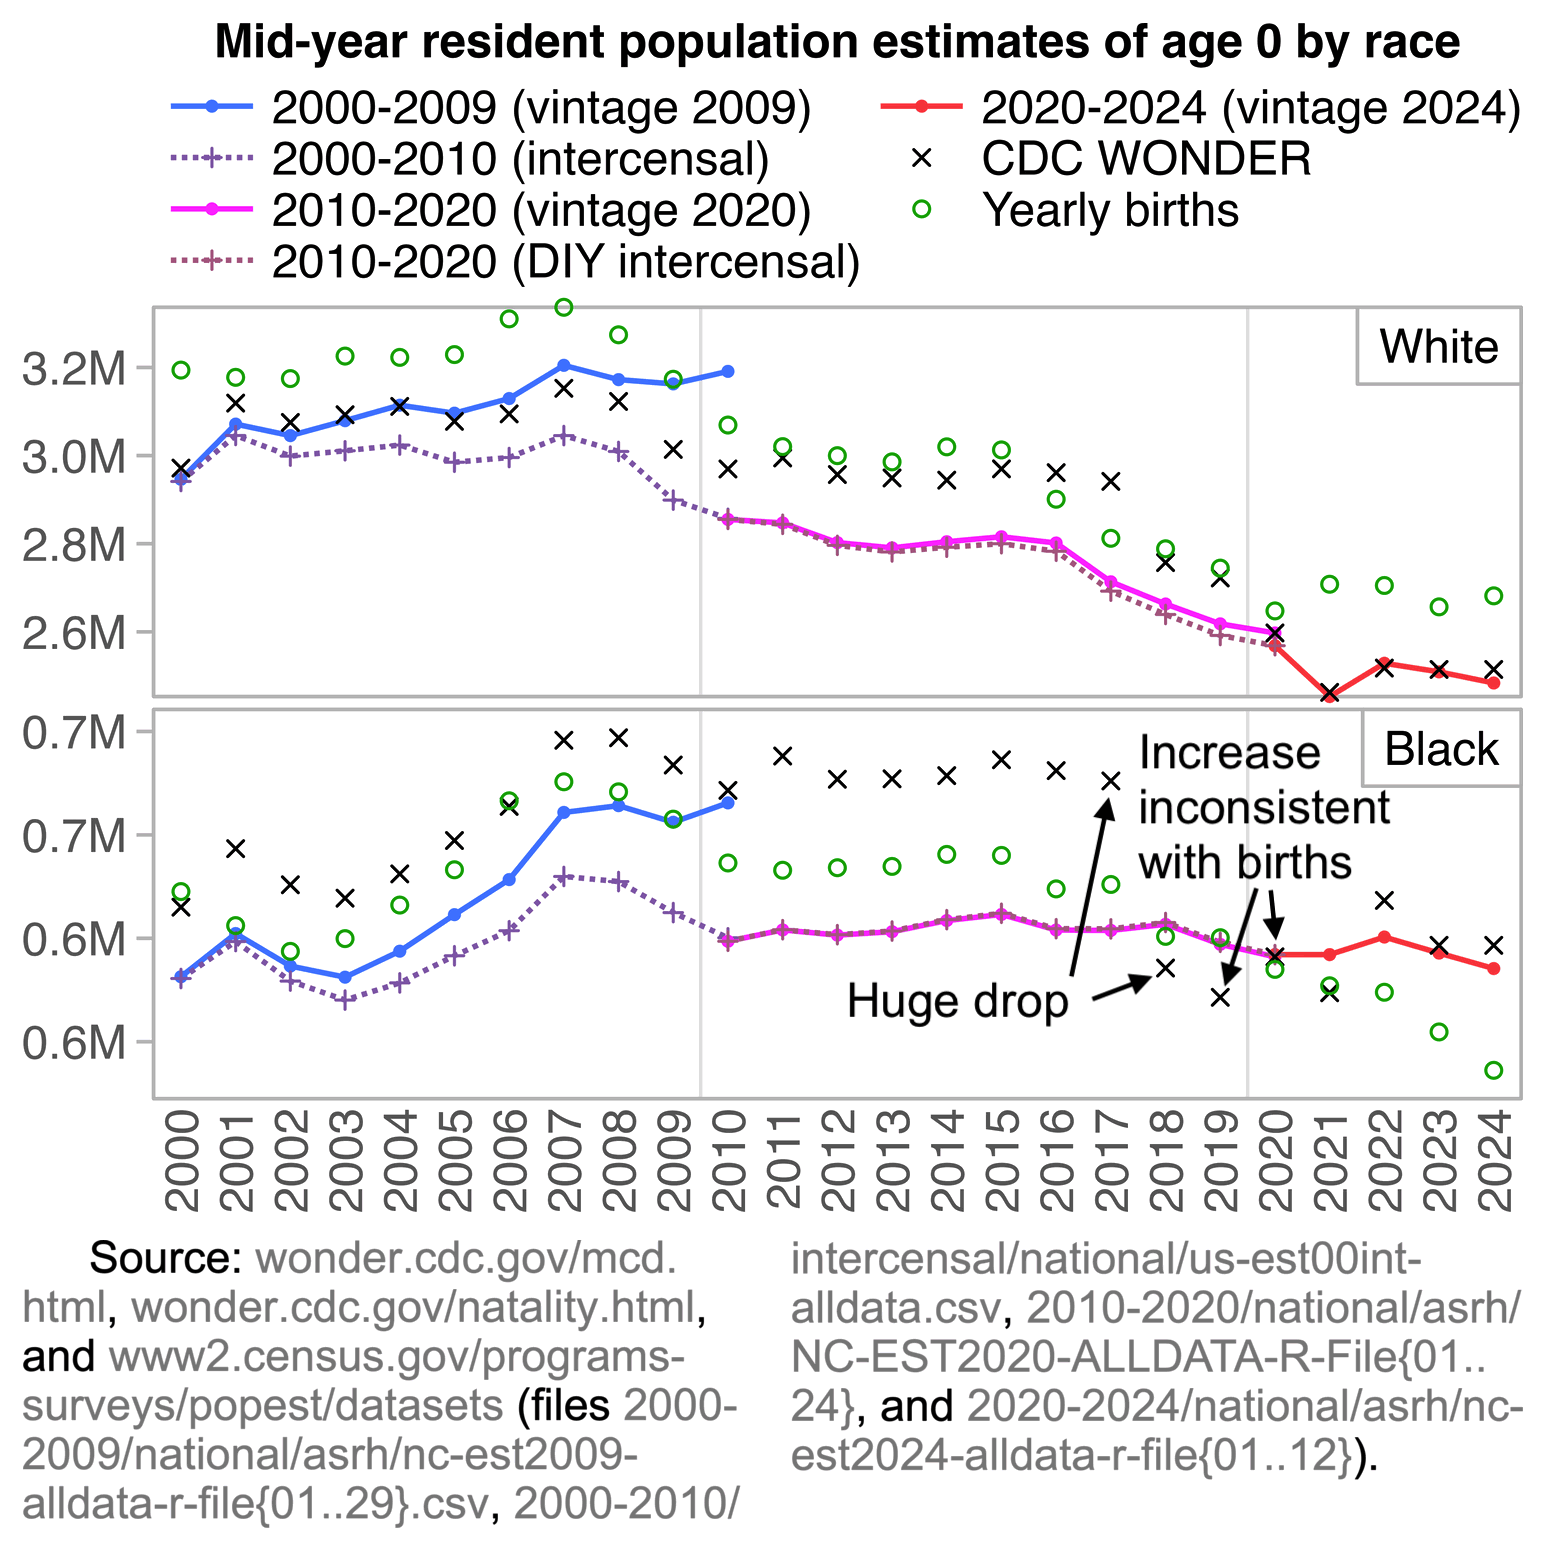
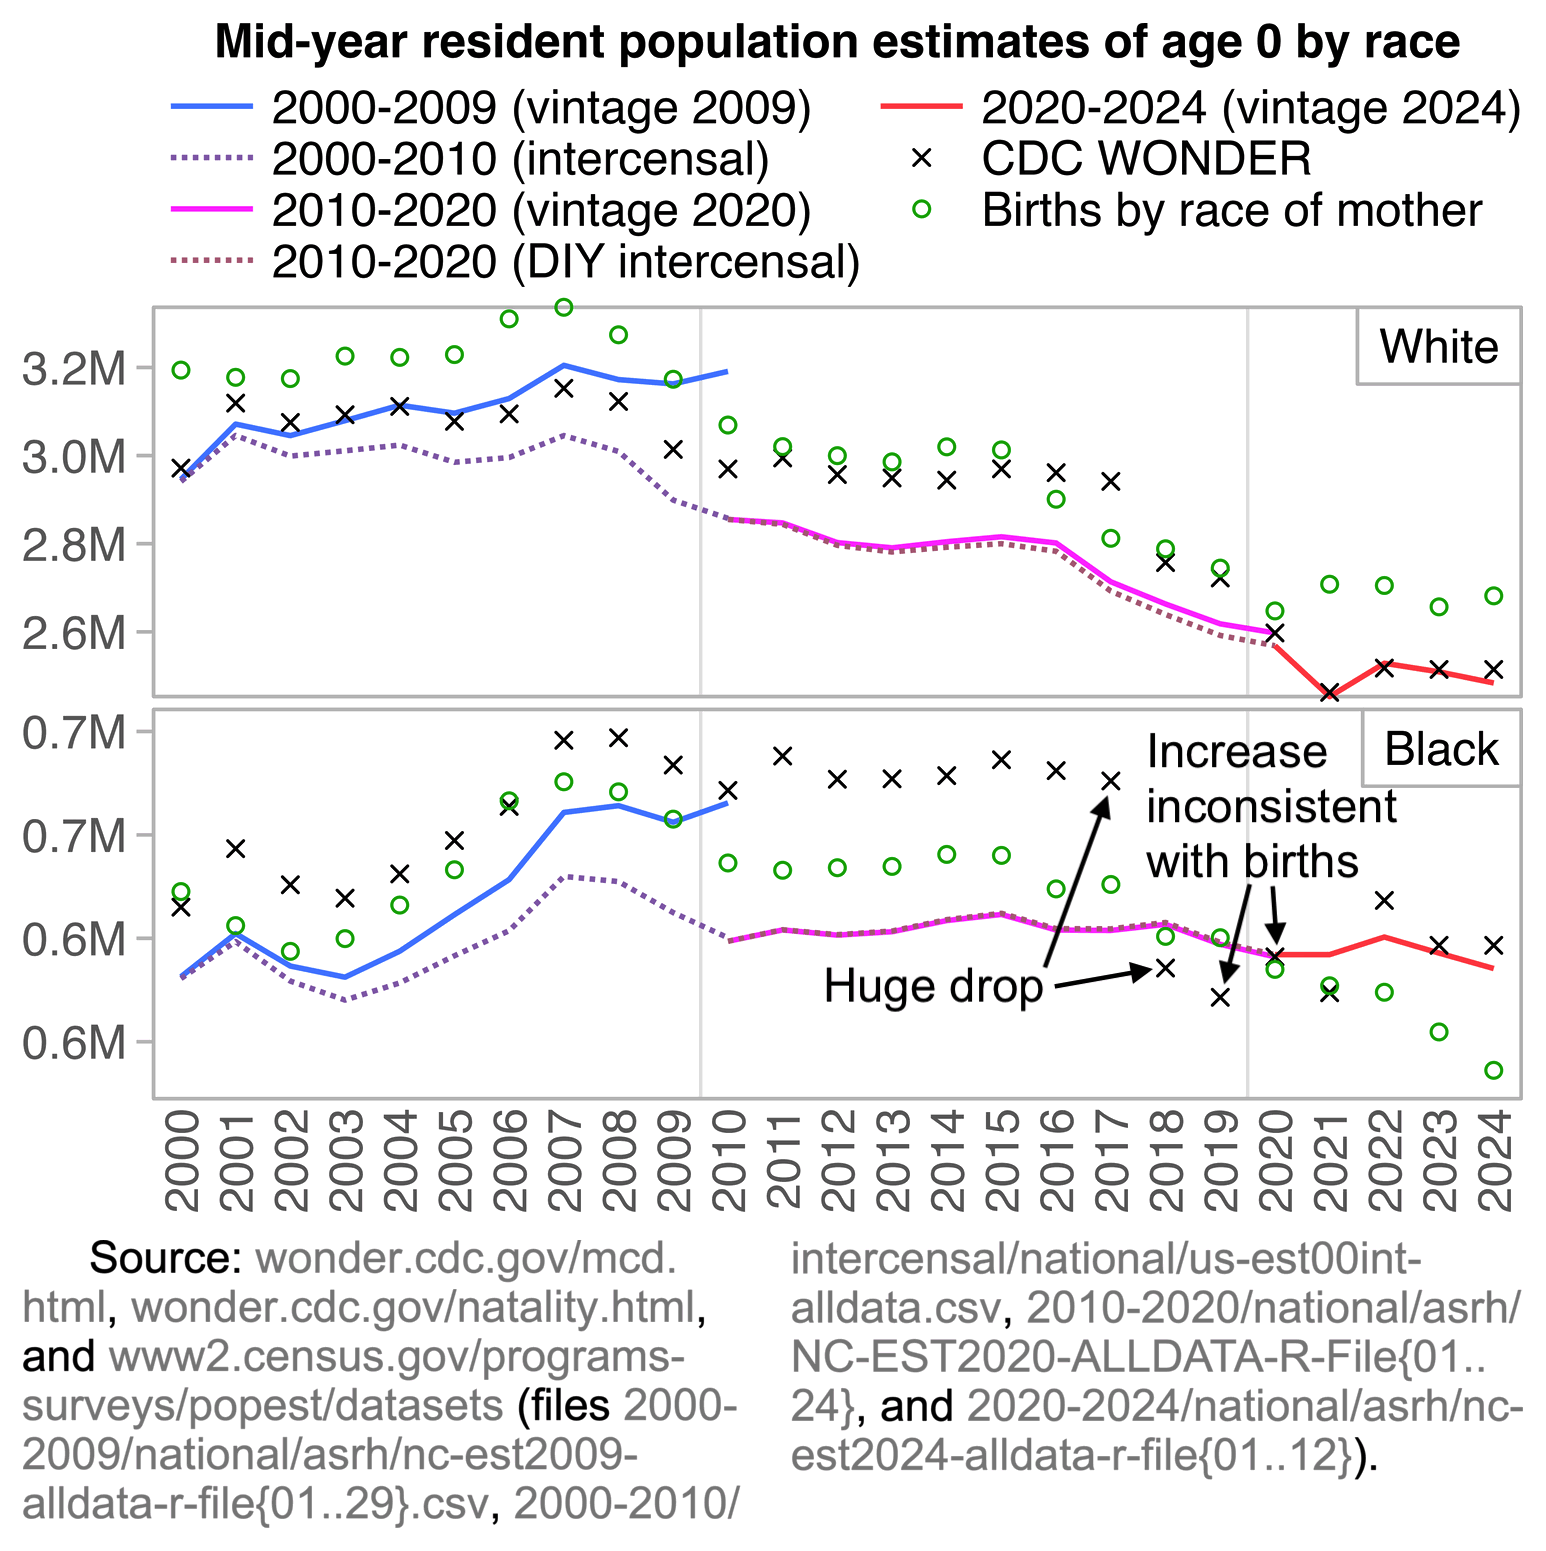
a

Changed region(s): [[0.5278, 0.4642, 0.9004, 0.6809], [0.621, 0.1238, 0.9625, 0.1547], [0.8072, 0.4023, 0.8383, 0.4333]]

diff --git a/clot.html b/clot.html
@@ -3789,6 +3789,11 @@ system(paste0(&quot;mogrify &quot;,i,&quot;.png -trim -resize 25% -bordercolor w
 </div>
 <hr />
 <p>In June 2025 Zywiec tweeted: <span class="quote">"I actually was one of the first doctors to work on these. Mass spec analysis, confirmed by two independent labs, show a remarkable pattern. No fibrin, abberant fibrinogen ratios of 9:4:1 a/b/y that should be 1:1:1, extremely high phosphorus, and other abnormalities."</span> [<a href=https://x.com/AndrewZywiecMD/status/1929751981263851605>https://x.com/AndrewZywiecMD/status/1929751981263851605</a>] When someone told him he was misidentifying the clots, he asked them to <span class="quote">"explain the absence of fibrin end product"</span>. I guess he didn't get the memo that fibrin is not supposed to show up in the mass spectrometry results, but only fibrinogen.</p>
+<hr />
+<p>Jikkyleaks got blocked by Andrew Zywiec because of this tweet: [<a href=https://x.com/Jikkyleaks/status/1963041584691487181>https://x.com/Jikkyleaks/status/1963041584691487181</a>]</p>
+<div>
+<img src=i/clot-zywiec-jikky-block.png width=550>
+</div>
 <h3>
 <a href=#Andrew_Zywiec_and_Daniel_Santiago_interviewed_by_Vaxxchoice id=Andrew_Zywiec_and_Daniel_Santiago_interviewed_by_Vaxxchoice>Andrew Zywiec and Daniel Santiago interviewed by Vaxxchoice</a>
 </h3>
@@ -3837,7 +3842,7 @@ system(paste0(&quot;mogrify &quot;,i,&quot;.png -trim -resize 25% -bordercolor w
 </div>
 <p>The description of the video said: <span class="quote">"On today's Dr. Jane Ruby Show, Dr. Jane interviews Counter-bioterrorism expert Dr. Tau Braun who explains that self-replicating nanoparticles in the C19 shots are programmed to grow venom ducts inside the human body. His theory is that the jabbed are growing live venom gland cells and other animal structures. Dr. Jane shows you the DOJ's research using cone snail venom to make huge amounts of deadly synthetic conotoxins. They say that deep ocean cone snail venom is a serious threat to humans who never dive that deep!"</span></p>
 <p>When Jane Ruby introduced Tau Braun, she said: <span class="quote">"He has worked with many of the experts you have already seen on the Jane Ruby Show, like Sasha Latypova of Team Enigma, Bryan Ardis, and so many more."</span> [8:50] Latypova said that hydrogel is probably incorporated into the calamari clots. [<a href=https://www.bitchute.com/video/6wSCNCHm1dUa/>https://www.bitchute.com/video/6wSCNCHm1dUa/</a>, time 40:45] Bryan Ardis says that the clots are made of two snake venom peptides in a hydrogel solution.</p>
-<p>Tau Braun said that people were wondering if COVID vaccines contain snake venom or if they contain graphene oxide, but he said they contai,n both because the graphene oxide acts as a delivery mechanism for the snake venom. At time 13:18, he said: <span class="quote">"How do you get venom into the body and how do you keep it stable? You add graphene oxide."</span></p>
+<p>Tau Braun said that people were wondering if COVID vaccines contain snake venom or if they contain graphene oxide, but he said they contain both because the graphene oxide acts as a delivery mechanism for the snake venom. At time 13:18, he said: <span class="quote">"How do you get venom into the body and how do you keep it stable? You add graphene oxide."</span></p>
 <p>At time 40:33, Tau Braun said that the calamari clots consist of tissue which contains snake venom ducts: <span class="quote">"Those monstrous clot-looking things are literally tissue that has grown a duct - and specialized ducts - the closest match I found to these fibrotic clots today is the chameleon tongue - it's the long, very very - extremely - it has what's called the tensile strength, it has elasticity to it. But it's extremely strong. Cause it has to whip out like a whip and it has to come back in, and so it has to have expansion at rapid speed, and it has to be able to go back. So it's like elastic."</span></p>
 <p>At time 17:40, Tau Braun said that if there is a species of snake that eats rodents, then the snake won't produce venom which affects amphibians but only venom which affects rodents, and in the same way the snake venom in the COVID vaccines was designed to not affect Aryans because the COVID vaccines are a race-specific bioweapon that was created by the Fourth Reich: <span class="quote">"So why are certain people totally fine from this? I'm gonna tell you that this was built by the Fourth Reich, and I'm gonna tell you that Aryans are not having a problem with this vaccine. I'm gonna tell you that you can stick this into an Aryan over and over. And what I mean by Aryan? I mean people that originally came from Viking heritage, Germanic heritage, and that basically you can go and look at those principles of what Nazis believe the superior race to be. And I'm gonna tell you this weapon was not built for them."</span></p>
 <p>Then Jane Ruby asked: <span class="quote">"How do you know that? What evidence do you have to that effect?"</span> [20:20] And Tau Braun said: <span class="quote">"Well, we know that the spike protein affects chromosome 3, and we know it's a sequence of genes on chromosome 3 that relates to Neanderthal genes. Neanderthal is not Aryan. Neanderthal was a very specific tribe in Europe. They didn't move often. And over time, they basically - some people would say - interbread with what we call modern-day humans. I'd say the modern-day humans raped them. I wouldn't say that there was interbreeding at all, as harsh as that sounds. I'd say that this was a tribe that - their strength, their gain of function, if you want to call it as a tribe - was empathy. That's what the Neanderthal gene is really about. It is really about being a sentinel. It's really about being able to connect the dots. They were the first tribe on the planet that understood medicine. They took care of their elderly. It is everything that this pandemic is not, right?"</span></p>
@@ -3845,12 +3850,14 @@ system(paste0(&quot;mogrify &quot;,i,&quot;.png -trim -resize 25% -bordercolor w
 <div>
 <img src=i/clot-tau-neanderthal-jew.png width=600>
 </div>
-<p>Tau Braun also says that the Aryans were planning to kill off nine tenths of humanity.</p>
 <p>Tau Braun looks like a Middle Easterner, and he seems like a Jew based on some of his posts about Jews on social media, because for example he posted on Facebook about Egyptian Jewish traditions. [<a href=https://www.facebook.com/drtaubraun/posts/pfbid0HhNazBvJ26Xa4r8rR8FAh8P1MgB29gCqX5vHbYti9QNV64WYgxcT1YRgDhpKzJrel>https://www.facebook.com/drtaubraun/posts/pfbid0HhNazBvJ26Xa4r8rR8FAh8P1MgB29gCqX5vHbYti9QNV64WYgxcT1YRgDhpKzJrel</a>] Tau is a Hebrew name that is a variant of the name Tav.</p>
 <p>Tau Braun's bio says that he is a <span class="quote">"U.S. National Counterterrorism &amp; EMS Advisor and Trainer"</span>. [<a href=http://web.archive.org/web/20250122104451/https://www.drtaubraun.com/about>http://web.archive.org/web/20250122104451/https://www.drtaubraun.com/about</a>] He has been a speaker at conferences like the <span class="quote">"Advanced Law Enforcement Rapid Response Training (ALERRT) Conference"</span>, the <span class="quote">"FEMA Active Shooter Preparation for Higher Education Workshop"</span>, and the <span class="quote">"Homeland Security Advisory Council Crisis Leadership and Emergency Management Workshop"</span>:</p>
 <div>
 <img src=i/clot-tau-bio.jpg width=800>
 </div>
+<hr />
+<p>During an interview with Mike Adams in 2023, Tau Braun said: <span class="quote">"We talked about the amyloidic stuff, even before you get it - you got a chance to look at - at some of the, you know, tissue, the samples that you looked at - we, you and I - unpacked a lot of this, sort of the way we're doing it now."</span> [<a href=https://www.bitchute.com/video/3PDYRFdS6te3>https://www.bitchute.com/video/3PDYRFdS6te3</a>, 20:20] But I don't know if by <span class="quote">"amyloidic stuff"</span> he meant calamari clots, and if by the samples he meant the samples that Mike Adams got from Hirschman, but if both of those are true, then Tau Braun would've discussed the clots very early on with Mike Adams.</p>
+<p>Tau Braun now also had a new theory that the calamari clots not only incorporate snake venom, nanobots, and graphene oxide, but now he said the clots also include SV40. At time 38:59 he said: <span class="quote">"You've covered the big stuff on, the big thrombotic events, and the weird castings that are - that this thing can grow in the body - which I'm still trying to work out. I think it's a combination, of venom organoid cells, but I also think that there's something on the spike protein that's used in the vaccine called SV40 - Simian Virus, which is a polyoma virus. And people call that a promoter. I don't like it. It sounds like a, like somebody who promotes like a - a new product or a club. The actual word for things like SV40 is, they are called cell penetrating peptides. And probably the most famous cell penetrating peptide - or some of the proteins that are in sperm that are basically able to get through cell membrane, and then get their RNA or DNA to replicate inside, um, another cell. And that's how, um, the, you know, that's - that's why SV40 is in there as mRNA technology - to basically penetrate into a cell and then make more of itself."</span></p>
 <h3>
 <a href=#Justin_Leslie_said_the_clots_are_teslaphoresis_carbon_nanotubial_systems id=Justin_Leslie_said_the_clots_are_teslaphoresis_carbon_nanotubial_systems>Justin Leslie said the clots are teslaphoresis carbon nanotubial systems</a>
 </h3>

diff --git a/ethical3.html b/ethical3.html
@@ -1504,7 +1504,7 @@ p=rbind(p,t[type==&quot;born&quot;,.(y=sum(pop),z=6),.(x=year,facet=race)])
 
 race=c(&quot;White&quot;,&quot;Black&quot;)
 p=p[facet%in%race][,facet:=factor(facet,race)]
-p[,z:=factor(z,,c(&quot;2000-2009 (vintage 2009)&quot;,&quot;2000-2010 (intercensal)&quot;,&quot;2010-2020 (vintage 2020)&quot;,&quot;2010-2020 (DIY intercensal)&quot;,&quot;2020-2024 (vintage 2024)&quot;,&quot;CDC WONDER&quot;,&quot;Yearly births&quot;))]
+p[,z:=factor(z,,c(&quot;2000-2009 (vintage 2009)&quot;,&quot;2000-2010 (intercensal)&quot;,&quot;2010-2020 (vintage 2020)&quot;,&quot;2010-2020 (DIY intercensal)&quot;,&quot;2020-2024 (vintage 2024)&quot;,&quot;CDC WONDER&quot;,&quot;Births by race of mother&quot;))]
 
 p=na.omit(p[x%in%2000:2024])
 xmin=1999.5;xmax=2024.5;xbreak=2000:2024
@@ -1524,8 +1524,8 @@ geom_label(data=ylim,aes(xmax,max,label=facet),hjust=1,vjust=1,fill=NA,label.r=u
 labs(title=&quot;Mid-year resident population estimates of age 0 by race&quot;,x=NULL,y=NULL)+
 scale_x_continuous(breaks=xbreak)+
 scale_y_continuous(breaks=pretty,labels=\(x)sprintf(&quot;%.1fM&quot;,x/1e6))+
-scale_color_manual(values=c(hsv(c(22,27,30,33,0)/36,c(.7,.4,.7,.4,.7),c(1,.7,1,.7,1)),&quot;black&quot;,&quot;#00aa00&quot;))+
-scale_shape_manual(values=c(16,3,16,3,16,4,1))+
+scale_color_manual(values=c(hsv(c(22,27,30,34,0)/36,c(.7,.4,.7,.4,.7),c(1,.7,1,.7,1)),&quot;black&quot;,&quot;#00aa00&quot;))+
+scale_shape_manual(values=c(NA,NA,NA,NA,NA,4,1))+
 scale_linetype_manual(values=c(&quot;solid&quot;,&quot;11&quot;)[c(1,2,1,2,1,1,1)])+
 scale_alpha_manual(values=c(0,0,0,0,0,1,1))+
 scale_linewidth_manual(values=c(.6,.6,.6,.6,.6,0,0))+
@@ -1557,6 +1557,7 @@ theme(axis.text=element_text(size=11,color=&quot;gray40&quot;,margin=margin(2,2,
   strip.text=element_blank())
 ggsave(&quot;1.png&quot;,width=5,height=4,dpi=300*4)</pre>
 </div>
+<p>In the plot above the black births are lower than the black population estimates since 2020, but it might be because I looked at births by maternal race, and some infants with a black father but a non-black mother might be classified as black in the population estimates.</p>
 <hr />
 <p>A lot of the extra infant deaths in 2022-2024 seem to have viral diseases or respiratory conditions as the underlying cause:</p>
 <div>
@@ -1614,9 +1615,9 @@ theme(axis.text=element_text(size=11,color=&quot;gray45&quot;),
 ggsave(&quot;1.png&quot;,width=7.4,height=5.4,dpi=300*4)</pre>
 </div>
 <hr />
-<p>About two thirds of deaths at age 0 are neonatal deaths, which means deaths in the first 28 days of life, but there was low neonatal mortality in 2021 (apart from January and February when few women of childbearing age had been vaccinated):</p>
+<p>About two thirds of deaths at age 0 are neonatal deaths, which means deaths in the first 28 days of life, but there was low neonatal mortality in 2021 (apart from January and February when few women of childbearing age had been vaccinated). And in 2023-2024 when few newborns had been exposed to COVID vaccines during pregnancy, there was high neonatal mortality:</p>
 <div>
-<img src=i/ethical-neonatal.png width=550>
+<img src=i/ethical-neonatal.png width=520>
 </div>
 <div class="spoiler">
 <button>
@@ -1680,11 +1681,22 @@ theme(axis.text=element_text(size=11,color=&quot;gray50&quot;),
   strip.text=element_blank())
 ggsave(&quot;1.png&quot;,width=4.6,height=3.7,dpi=300*4)</pre>
 </div>
+<p>In 2018-2025, CDC WONDER returned a total of 158,615 deaths at ages 0-4 with the underlying cause A-R or 999–999, but 99,194 of the deaths were neonatal deaths, so about 63% of the deaths in Ethical Skeptic's plot are neonatal deaths.</p>
 <hr />
 <p>In England and Wales neonatal mortality was also clearly reduced in 2020, and possibly to a lesser extent also in 2021: [<a href=https://x.com/UncleJo46902375/status/1962565388446695774>https://x.com/UncleJo46902375/status/1962565388446695774</a>, <a href=https://www.ons.gov.uk/peoplepopulationandcommunity/birthsdeathsandmarriages/deaths/datasets/infantmortalitybirthcohorttablesinenglandandwales>https://www.ons.gov.uk/peoplepopulationandcommunity/birthsdeathsandmarriages/deaths/datasets/infantmortalitybirthcohorttablesinenglandandwales</a>]</p>
 <div>
 <img src=i/ethical-infant-england-wales.png width=550>
 </div>
+<hr />
+<p>ES posted this response to people like me who requested him to document his methodology: [<a href=https://x.com/EthicalSkeptic/status/1962179284451156283>https://x.com/EthicalSkeptic/status/1962179284451156283</a>]</p>
+<div>
+<img src=i/ethical-modules-1.png width=550>
+</div>
+<div>
+<img src=i/ethical-modules-2.png width=550>
+</div>
+<p>However if he doesn't want to publish his Excel spreadsheets, he could simply describe his methodology precisely enough that other people can reproduce his weekly excess deaths exactly. Or he could write a script in some programming language, so that if it's given the weekly number of deaths as an input, it produces the weekly baseline number of deaths as the output. It probably wouldn't require 150 modules to accomplish.</p>
+<p>I have posted over a thousand R scripts on my website, and I have done a lot of extra work to write my R scripts in a format where other people can run them by copying and pasting my code. If Ethical Skeptic's Excel-based analysis is not as easy to reproduce, it's one way in which his analysis is inferior to mine.</p>
 <h2>
 <a href=#ES_versus_Grok_on_cancer_mortality id=ES_versus_Grok_on_cancer_mortality>ES versus Grok on cancer mortality</a>
 </h2>
